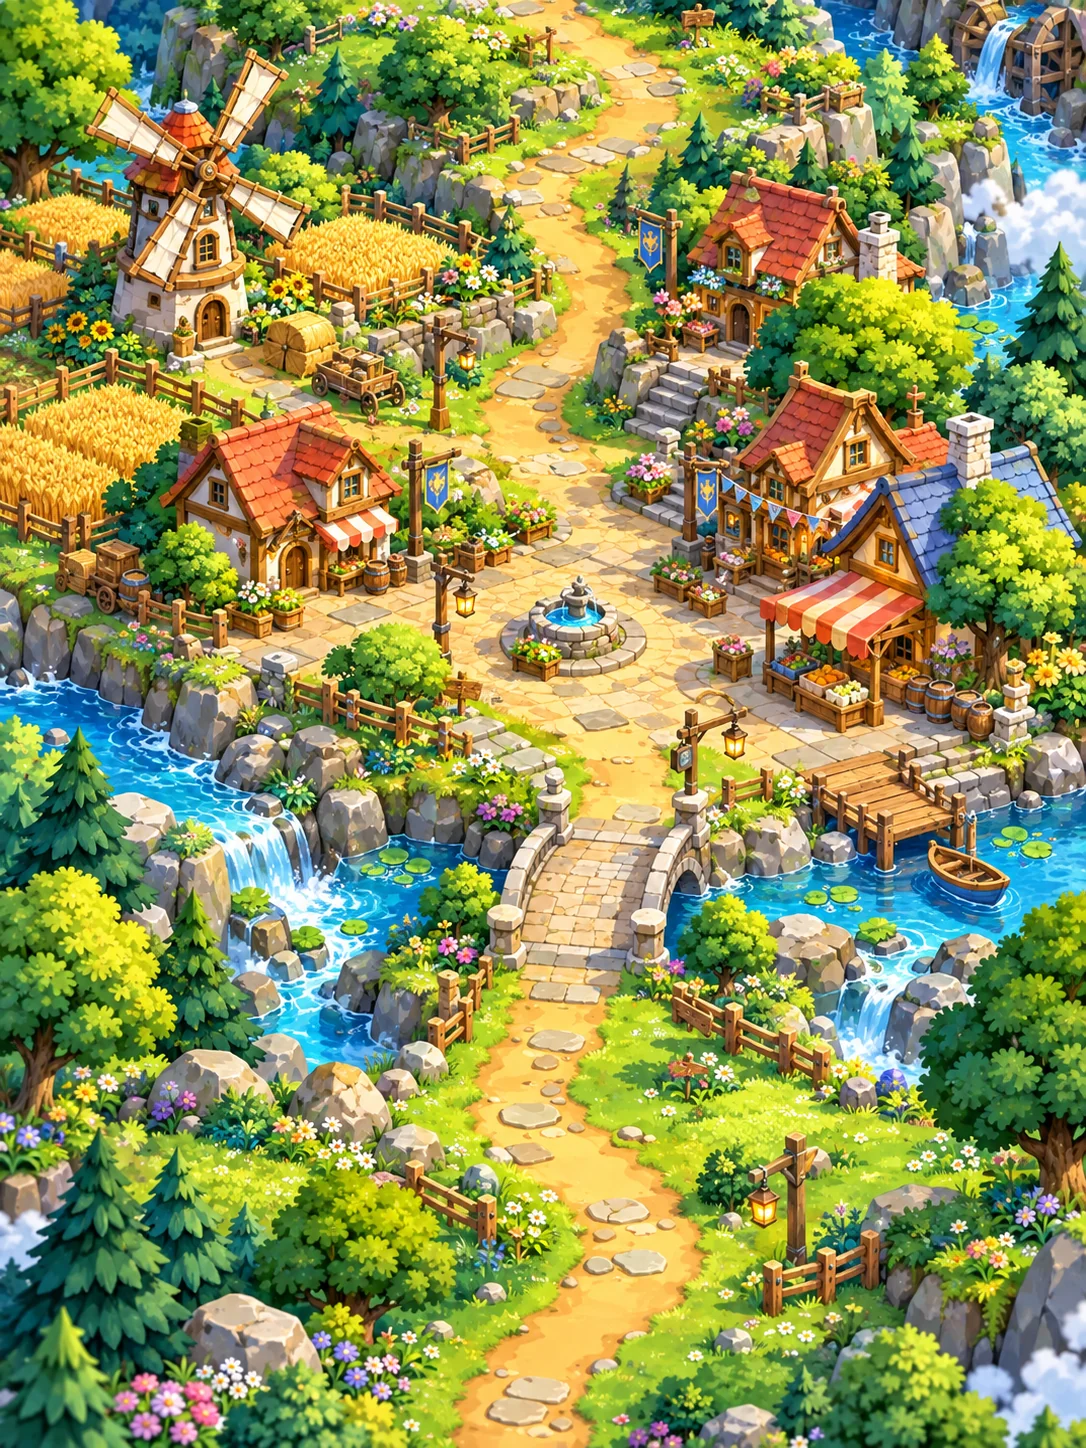
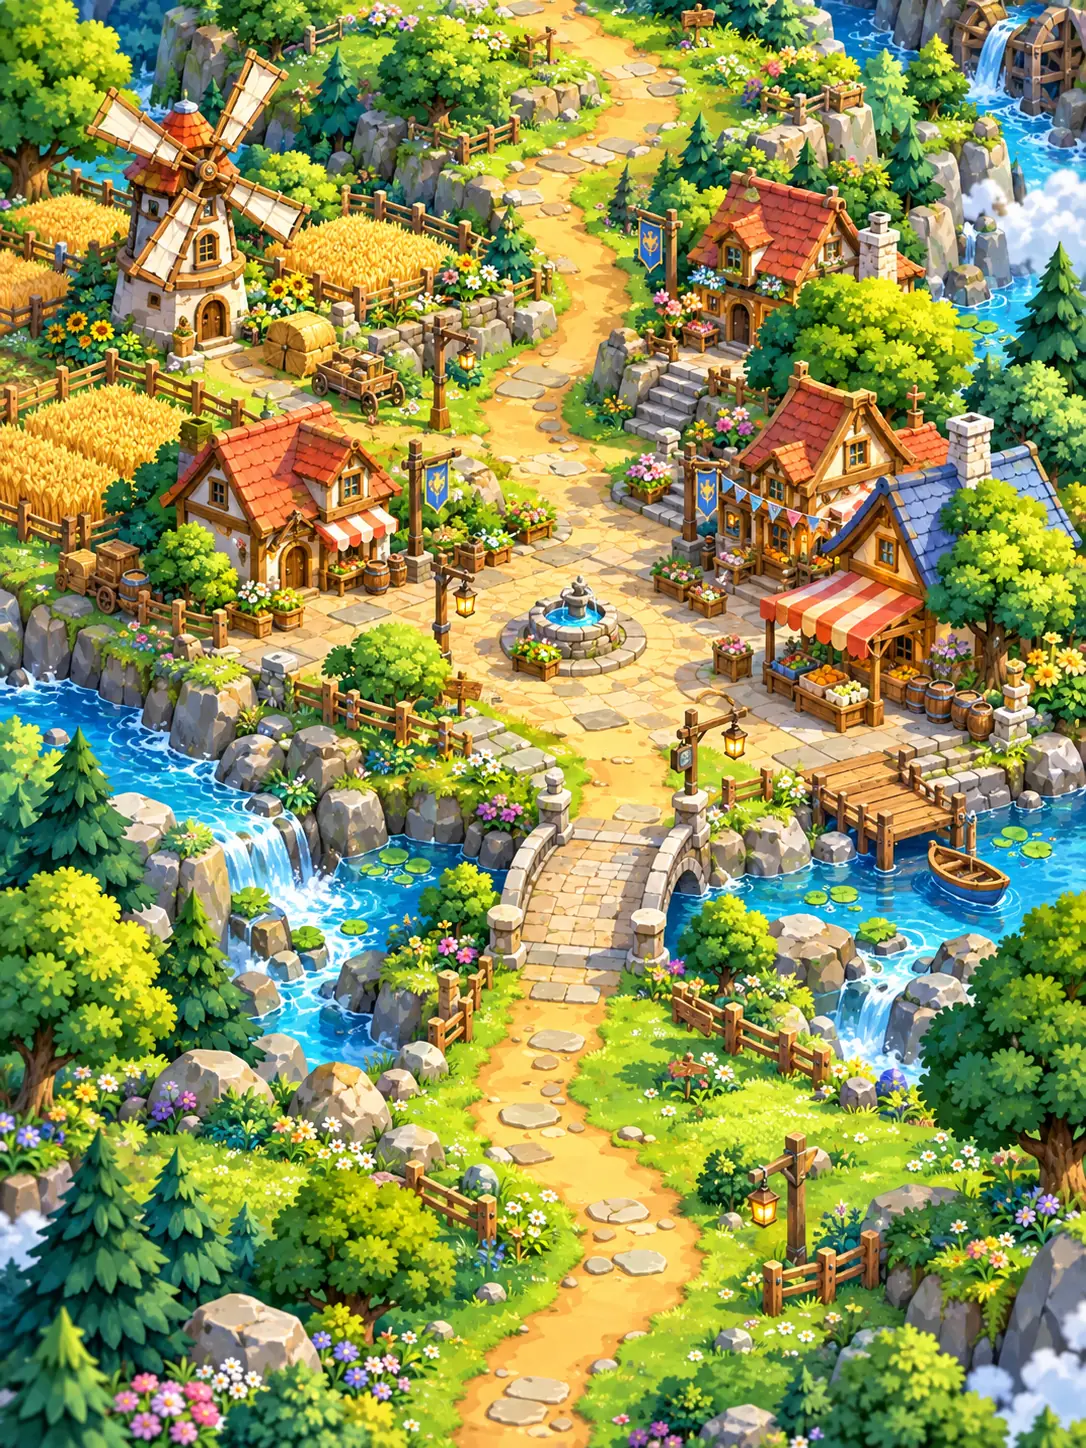
Load the path map faster: hero zone first, blurred previews, smaller WebP
First visits to the path map downloaded all 8 zone backgrounds (3.9 MB) at
once, top (Zone 8) first, so a new player at Zone 1 waited for nearly all of
it. Now:
- Only the hero's zone (and the zone it walks to) starts with its full image
  (fetchpriority=high). Other zones start with a preview and get their full
  image after the hero zone has loaded, nearest first, two at a time; a zone
  scrolled into view jumps the queue. A failed download retries once.
- Every zone shows a 48 px pre-blurred preview (7 KB total, inline in
  ZONE_ART.thumb) as the image background until the full image arrives, so
  the map never shows blank; the seam mask applies to it as well.
- The map scrolls to the hero immediately (heights are already reserved) and
  the walk only waits for its from/to zones.
- Zone WebP files re-encoded from the source PNGs at quality 72 (same
  1024/1086 px size): 3.89 MB -> 2.64 MB.

diff --git a/src/map.js b/src/map.js
@@ -145,15 +145,16 @@ function currentPathMonsterArt(){
 }
 
 // w/h＝圖檔原始尺寸，寫進 <img width height> 讓瀏覽器在圖片載入前就預留正確高度（換圖時要一起更新）
+// thumb＝48px 寬、先稍微模糊過的超小預覽（WebP base64），高清圖下載好之前當背景先顯示模糊地圖（換圖時要一起重產）
 const ZONE_ART = [
-  { img: "assets/maps/zone1-meadow.webp", w: 1024, h: 1536, nodes: [{ ni: 0, x: 53, y: 91 }] },
-  { img: "assets/maps/zone2-village.webp", w: 1086, h: 1448, nodes: [{ ni: 1, x: 50, y: 45 }] },
-  { img: "assets/maps/zone3-forest.webp", w: 1024, h: 1536, nodes: [{ ni: 2, x: 50, y: 55 }] },
-  { img: "assets/maps/zone4-river-valley.webp", w: 1086, h: 1448, nodes: [{ ni: 3, x: 58, y: 46 }] },
-  { img: "assets/maps/zone5-mountain-valley.webp", w: 1024, h: 1536, nodes: [{ ni: 4, x: 60, y: 50 }] },
-  { img: "assets/maps/zone6-volcano.webp", w: 1024, h: 1536, nodes: [{ ni: 5, x: 48, y: 68 }] },
-  { img: "assets/maps/zone7-snow-mountain.webp", w: 1024, h: 1536, nodes: [{ ni: 6, x: 58, y: 50 }] },
-  { img: "assets/maps/zone8-boss-castle.webp", w: 1024, h: 1536, nodes: [{ ni: 7, x: 50, y: 27 }] }
[8 lines of base64/hex data omitted]
 ];
 
 // 8 個 Zone 的正式名稱（出自 art-prompts.md 各分區的標題），跨 Zone 時的區域提示用
@@ -187,6 +188,8 @@ function renderPathMap(){
   const walkFrom = S.pathHeroShown != null && S.pathHeroShown < currentIndex && !reduceMotion ? S.pathHeroShown : null;
   S.pathHeroShown = currentIndex;
   const avatarAt = walkFrom != null ? walkFrom : currentIndex;
+  // 載入優先順序：主角站的區（和要走去的區）先下載，其他區 lazy（捲到附近才載）；新玩家不用等 8 張圖全部下載完
+  const focusZones = new Set([zoneOfNode(avatarAt), zoneOfNode(currentIndex)]);
 
   const zonesHtml = [...ZONE_ART].reverse().map(zone => {
     const nodesHtml = zone.nodes.map(({ ni, x, y }) => {
@@ -206,7 +209,11 @@ function renderPathMap(){
       ${ni === avatarAt ? `<div class="path-avatar walking" id="pathAvatar" style="left:${x}%;top:${y}%"><div class="hero-walk"><img src="${HERO_WALK_SRC}" alt="主角"></div></div>` : ""}`;
     }).join("");
     // data-zone 給 CSS 做相鄰分區的重疊漸變用（見 index.html 的 .zone-wrap 規則）
-    return `<div class="zone-wrap" data-zone="${ZONE_ART.indexOf(zone) + 1}"><img src="${zone.img}" width="${zone.w}" height="${zone.h}" class="zone-bg" alt=""> ${nodesHtml}</div>`;
+    // 背景先放超小預覽圖（拉伸後自然是模糊的），高清圖到了就蓋過去；同一個元素，所以接縫遮罩也照樣套用
+    const zi = ZONE_ART.indexOf(zone);
+    // 主角這區直接載高清圖；其他區先用預覽圖當 src，高清圖放 data-src，等主角這區載完再依距離一張張載（見 loadZoneArtInOrder）
+    const src = focusZones.has(zi) ? `src="${zone.img}" fetchpriority="high"` : `src="${zone.thumb}" data-src="${zone.img}"`;
+    return `<div class="zone-wrap" data-zone="${zi + 1}"><img ${src} width="${zone.w}" height="${zone.h}" decoding="async" class="zone-bg" style="background-image:url(${zone.thumb})" alt=""> ${nodesHtml}</div>`;
   }).join("");
 
   app.innerHTML = `
@@ -224,12 +231,13 @@ function renderPathMap(){
     btn.onclick = () => startPathNode(+btn.dataset.ni);
   });
   const avatar = $("#pathAvatar");
+  // 分區圖的高度已經用 width/height 預留，版面現在就是對的：馬上捲到主角，不用等圖
+  if (avatar) avatar.scrollIntoView({ block: "center" });
+  loadZoneArtInOrder([...focusZones], zoneOfNode(currentIndex));
   if (avatar && walkFrom != null){
-    // 分區圖載入前 zone-wrap 高度是 0，座標與捲動都會算錯（會捲到最上面的 Boss 區），所以等圖都有尺寸再走；
-    // 等待期間主角先站在起點節點
-    whenZoneArtReady().then(() => { if (avatar.isConnected) walkPathHero(avatar, walkFrom, currentIndex); });
+    // 走路等出發區和目的區的圖載好再開始（背景出來了才走）；等待期間主角先站在起點節點
+    whenZoneArtReady([...focusZones]).then(() => { if (avatar.isConnected) walkPathHero(avatar, walkFrom, currentIndex); });
   } else if (avatar){
-    whenZoneArtReady().then(() => { if (avatar.isConnected) avatar.scrollIntoView({ block: "center" }); });
     if (reduceMotion){
       avatar.classList.remove("walking");
       avatar.innerHTML = `<img src="${HERO_IDLE_SRC}" alt="主角">`;
@@ -243,10 +251,55 @@ function renderPathMap(){
   }
 }
 
-// 等目前地圖上的 8 張 .zone-bg 都載入（或失敗）才 resolve；網路太慢時最多等 ZONE_ART_WAIT_MS 就照目前版面繼續
+// 節點在第幾個分區（ZONE_ART 的索引）
+function zoneOfNode(ni){ return ZONE_ART.findIndex(z => z.nodes.some(n => n.ni === ni)); }
+
+// 其他分區的高清圖：等主角那幾區載完（最多等 ZONE_ART_WAIT_MS），再依離主角的距離由近到遠、一次兩張地載入。
+// 玩家自己捲到還沒載的分區時，那一區立刻插隊。地圖重畫後（換畫面）舊的佇列自動作廢
+const ZONE_ART_PARALLEL = 2;
+function loadZoneArtInOrder(focusZones, heroZone){
+  const pending = [...app.querySelectorAll(".zone-bg[data-src]")]
+    .sort((a, b) => Math.abs(+a.parentElement.dataset.zone - 1 - heroZone) - Math.abs(+b.parentElement.dataset.zone - 1 - heroZone));
+  if (!pending.length) return;
+  const loadOne = img => new Promise(res => {
+    if (!img.dataset.src || !img.isConnected) return res();
+    const url = img.dataset.src;
+    img.removeAttribute("data-src");
+    img.addEventListener("load", res, { once: true });
+    // 下載失敗（連線被中斷）就 1 秒後重試一次；再失敗就維持預覽圖
+    img.addEventListener("error", () => {
+      if (!img.isConnected) return res();
+      setTimeout(() => {
+        img.addEventListener("load", res, { once: true });
+        img.addEventListener("error", res, { once: true });
+        img.src = url + (url.includes("?") ? "&" : "?") + "retry=1";
+      }, 1000);
+    }, { once: true });
+    img.src = url;
+  });
+  const io = "IntersectionObserver" in window ? new IntersectionObserver(entries => {
+    entries.forEach(e => { if (e.isIntersecting){ io.unobserve(e.target); loadOne(e.target); } });
+  }, { rootMargin: "100px 0px" }) : null;
+  if (io) pending.forEach(img => io.observe(img));
+  whenZoneArtReady(focusZones).then(async () => {
+    const worker = async () => {
+      while (pending.length){
+        const img = pending.shift();
+        if (!img.isConnected) break; // 已經離開地圖
+        if (io) io.unobserve(img);
+        await loadOne(img);
+      }
+    };
+    await Promise.all(Array.from({ length: ZONE_ART_PARALLEL }, worker));
+    if (io) io.disconnect();
+  });
+}
+
+// 等指定分區（ZONE_ART 索引；不給就是全部）的 .zone-bg 載入（或失敗）才 resolve；網路太慢時最多等 ZONE_ART_WAIT_MS 就照目前版面繼續
 const ZONE_ART_WAIT_MS = 5000;
-function whenZoneArtReady(){
-  const imgs = [...app.querySelectorAll(".zone-bg")];
+function whenZoneArtReady(zoneIdxs){
+  const want = zoneIdxs ? new Set(zoneIdxs.map(i => String(i + 1))) : null;
+  const imgs = [...app.querySelectorAll(".zone-bg")].filter(img => !want || want.has(img.parentElement.dataset.zone));
   const loaded = Promise.all(imgs.map(img => img.complete ? null : new Promise(res => {
     img.addEventListener("load", res, { once: true });
     img.addEventListener("error", res, { once: true });

diff --git a/index.html b/index.html
@@ -105,7 +105,7 @@ button:focus-visible,input:focus-visible{outline:3px solid var(--cobalt);outline
 .map-container{margin:0 -20px;padding:0 0 4px}
 .map-world{position:relative;display:flex;flex-direction:column;line-height:0}
 .zone-wrap{position:relative;width:100%;margin:0;line-height:0}
-.zone-bg{display:block;width:100%;height:auto}
+.zone-bg{display:block;width:100%;height:auto;background-size:100% 100%;background-repeat:no-repeat}
 /* 相鄰分區重疊漸變：下方分區往上疊 --zone-overlap，頂部用波浪狀的柔邊遮罩淡入，上方分區維持不透明墊底，
    所以不會透出頁面底色；zone-wrap 的高度仍等於圖片高度，只是用負 margin 往上疊 */
 .map-world{--zone-overlap:clamp(120px,36vw,180px);
